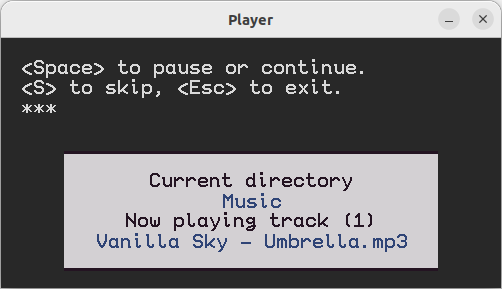
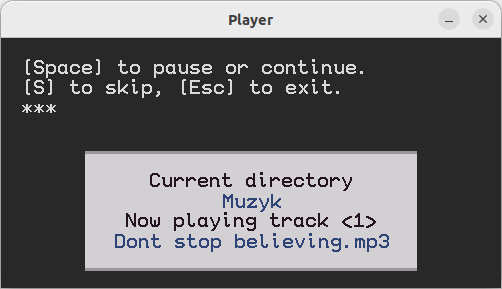
Some font fixes

diff --git a/src/stage.rs b/src/stage.rs
@@ -252,14 +252,14 @@ impl Stage {
         let s_display = self.state.lock().unwrap();
         self.overlay = text::Overlay::new_from(vec![
             //&format!("FPS: {}.", self.time_state.fps + 1),
-            &format!("<Space> to pause or continue."),
-            &format!("<S> to skip, <Esc> to exit."),
+            &format!("[Space] to pause or continue."),
+            &format!("[S] to skip, [Esc] to exit."),
             &s_display.message,
         ]);
         self.gui = text::GUI::new_from(vec![
             &format!("Current directory"),
             &s_display.dir_name,
-            &format!("Now playing track ({})", s_display.file_num),
+            &format!("Now playing track <{}>", s_display.file_num),
             &s_display.file_name,
         ], self.settings.screen_width_f, self.settings.screen_height_f);
         drop(s_display);

diff --git a/src/text.rs b/src/text.rs
@@ -273,6 +273,8 @@ fn char_to_uv(c: char) -> TextureUV {
         ')' => tex = TextureUV{u1: X1+16.0*WIDTH, u2: X1+17.0*WIDTH, v1: Y5, v2: Y5+HEIGHT},
         ';' => tex = TextureUV{u1: X1+17.0*WIDTH, u2: X1+18.0*WIDTH, v1: Y5, v2: Y5+HEIGHT},
         '■' => tex = TextureUV{u1: X1+18.0*WIDTH+1.0, u2: X1+19.0*WIDTH-1.0, v1: 88.0, v2: 98.0},
+        '[' => tex = TextureUV{u1: X1+19.0*WIDTH, u2: X1+20.0*WIDTH, v1: Y5, v2: Y5+HEIGHT},
+        ']' => tex = TextureUV{u1: X1+20.0*WIDTH, u2: X1+21.0*WIDTH, v1: Y5, v2: Y5+HEIGHT},
         '+' => tex = TextureUV{u1: X1+13.0*WIDTH, u2: X1+14.0*WIDTH, v1: Y6, v2: Y6+HEIGHT},
         '&' => tex = TextureUV{u1: X1+14.0*WIDTH, u2: X1+15.0*WIDTH, v1: Y6, v2: Y6+HEIGHT},
         '_' => tex = TextureUV{u1: X1+15.0*WIDTH, u2: X1+16.0*WIDTH, v1: Y6, v2: Y6+HEIGHT},
